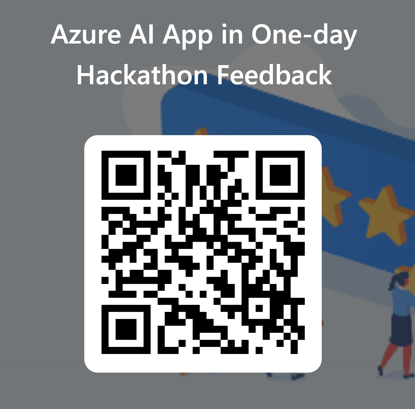
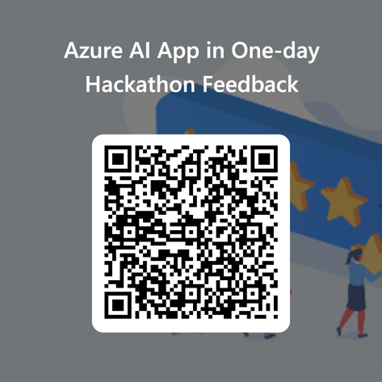
update feedback

diff --git a/docs/90-Feedback.md b/docs/90-Feedback.md
@@ -8,4 +8,4 @@ Thank you so much for your support!
 
 ![alt text](images/feedback.png)
 
-https://forms.office.com/r/uBEduH1jrd
+https://forms.office.com/r/CefZaKwv6f
